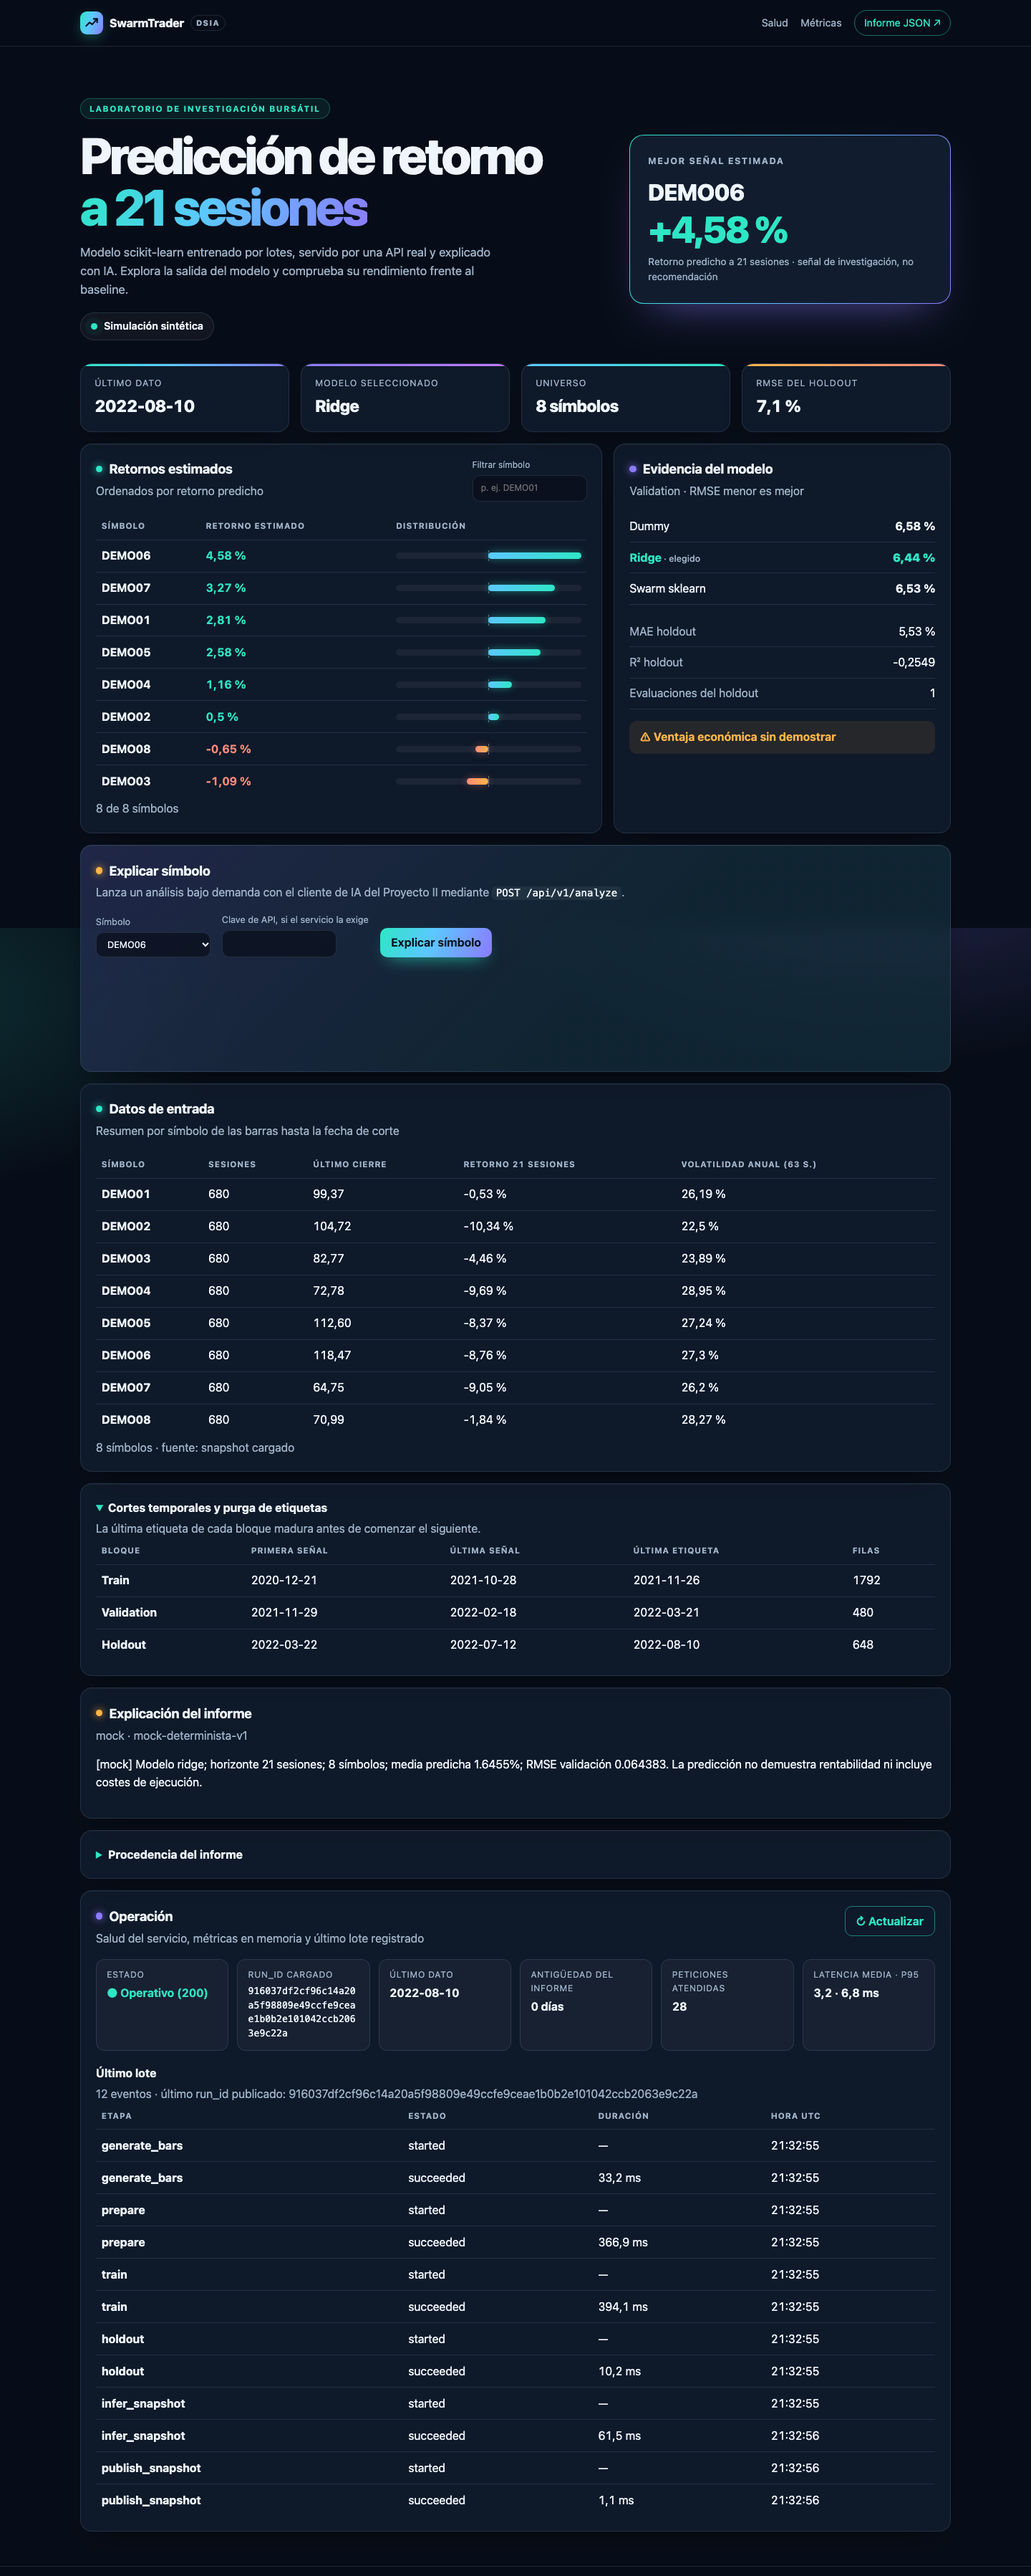
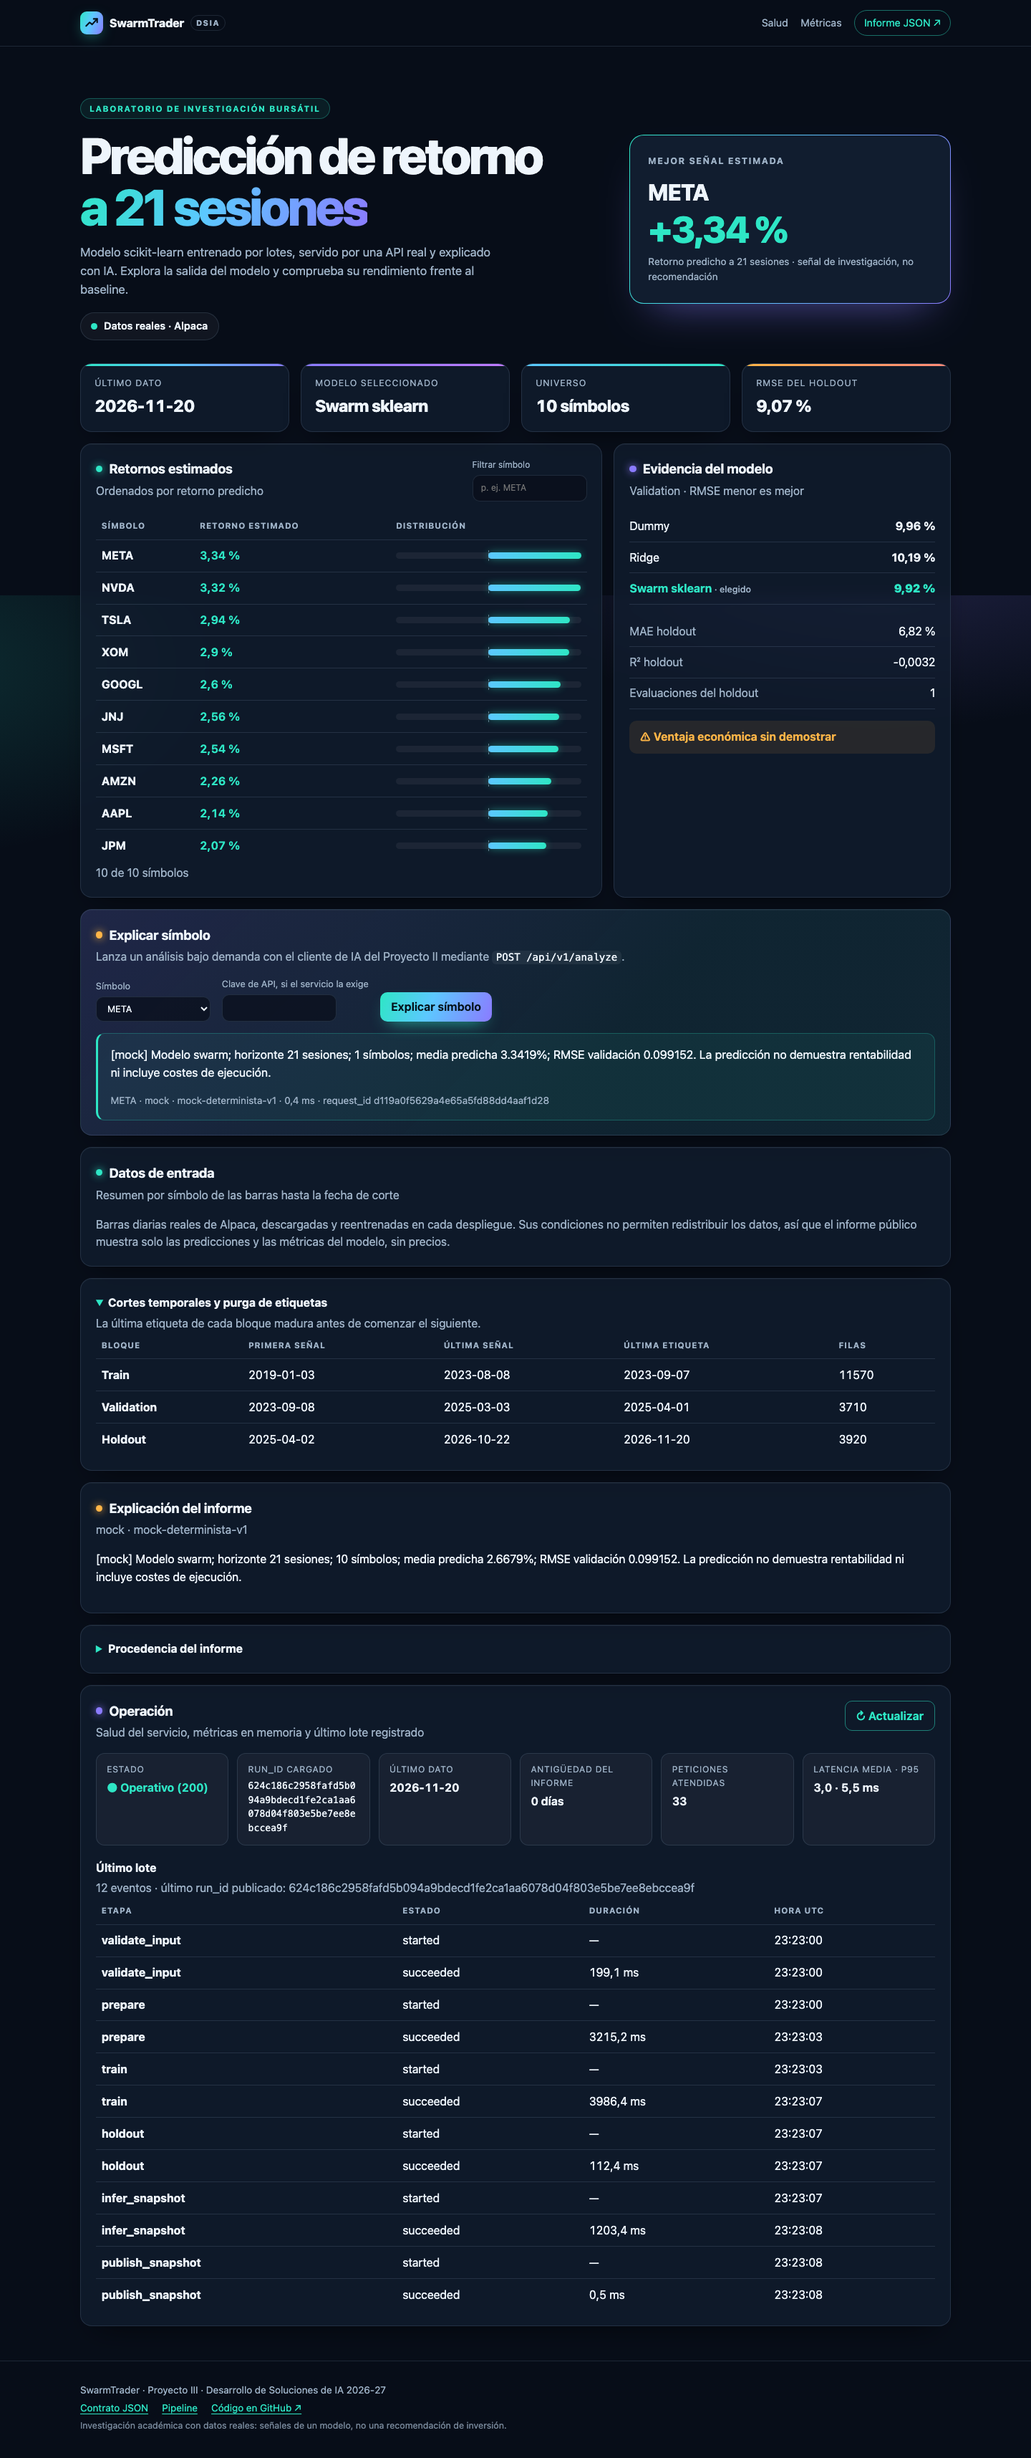
Documentar el despliegue con datos reales de Alpaca y actualizar su captura

diff --git a/proyectos/proyecto_iii/AI_USAGE.md b/proyectos/proyecto_iii/AI_USAGE.md
@@ -9,5 +9,6 @@ Registro por entrada según la política de uso de IA de la asignatura: qué se 
 | 23/11/2026 | Claude Octopus Council | Revisión arquitectónica con presupuesto limitado | Nada | La revisión quedó parcial y sin quórum; no se usó como validación | — |
 | 23/11/2026 | Claude Code (modelo Claude Opus 5.5) | Auditoría de cumplimiento frente al enunciado del III y aplicación de las mejoras de la auditoría | Middleware de `request_id`, `latency_ms`, contadores y cabeceras CSP/nosniff/no-referrer; `/health` con `checks`; `GET /api/v1/predictions/{symbol}`; `POST /api/v1/analyze` con el `AIClient` del II, límite de cuerpo, 503 tipado y `X-API-Key` opcional; `GET /api/v1/pipeline` y `GET /api/v1/metrics`; IA del lote configurada por `AI_PROVIDER`/`HF_*`; etapa `validate_input`; `input_summary` en el snapshot; paneles Operación, Datos de entrada y Explicar símbolo; `browser_smoke.py` y `smoke_test.sh` ampliados; Dockerfile, `.dockerignore`, `render.yaml`, `Procfile`, `.python-version`, `requirements-e2e.txt`; [evidencia agregada del histórico Alpaca](evidencia/historico_alpaca.json); README, contrato y RC | Campo `question` en `/api/v1/analyze`: `AnalysisRequest` del II no tiene pregunta libre y cambiarlo excede el III. Estado `degraded`: el journal es informativo y no justifica un 503. Normalizar símbolos en minúsculas: se prefiere un 422 explícito. URL pública y tag `v0.9.0-rc1`: requieren la cuenta y la aprobación del autor. Captura del dashboard con Alpaca: mostraría cierres y la licencia no permite redistribuirlos | 97 pruebas en verde con 98 % de cobertura de `dsia_web`; cada prueba nueva se puso en rojo rompiendo el código que cubre; Uvicorn en local con `smoke_test.sh` y `browser_smoke.py --expect-pipeline`; `docker build` y `docker run` con `HEALTHCHECK` sano, smoke y prueba de navegador contra el contenedor |
 | 23/11/2026 (tarde) | Claude Code (modelo Claude Opus 5.5) | Verificación final en un clon limpio, despliegue en Render desde `main`, rediseño visual del dashboard | 404/405 del enrutador con el error JSON tipado (`ca7aeb8`); `browser_smoke.py` con `--api-key` y filtro del 503 limitado a `/api/v1/analyze` (`050c698`); README con `.venv-ii`, Procfile aclarado y nota sobre `run_id` (`bb3942c`); imagen con `requirements-runtime.txt` fijado a las versiones del II y su test (`650970f`, 1,17 → 0,88 GB); dashboard con tarjetas, «Mejor señal estimada», favicon y pie, sin código inline (`1156cfc`); `render.yaml` con `runtime: docker` y la URL pública (`b983bcd`) | Cabecera fija: en la captura de página completa del CI aparecía a mitad de la imagen. Fuentes web externas: la CSP `default-src 'self'` las bloquearía. Etiquetar `v0.9.0-rc1`: lo decide el autor | 103 pruebas del III en verde (97,94 %); Playwright `--expect-pipeline` con y sin `DSIA_API_KEY`, móvil a 390 px y sin errores de consola; imagen `healthy` en 6 s con smoke correcto; en Render, `/health` 200, `smoke_test.sh` correcto y análisis desde el dashboard en Chrome |
+| 23-24/11/2026 | Claude Code (modelo Claude Opus 5.5) | Que el despliegue de Render muestre símbolos reales en vez de la demo | `alpaca_source.py` (descarga con `alpaca-py`, SIP con reintento en IEX, panel común `date, symbol, close, volume`, credenciales solo en memoria) y modos `alpaca`/`auto` del lote sin `input_summary` (`507dba5`); secret mount en el Dockerfile y `alpaca-py` en el runtime (`35d85ee`); etiqueta «Datos reales · Alpaca» y aviso de licencia (`31c3638`); `serve.py`, que refresca al arrancar con las claves como variables de entorno (`6e45a4b`); prueba de `/health` independiente de la hora (`5410155`); respuesta del análisis sin animación de entrada para que la captura de página completa no la apague | Publicar cierres, retorno realizado o volatilidad con datos de Alpaca: sus condiciones prohíben redistribuirlos (decisión del autor: solo predicciones). Leer las claves como `ARG` en el build: quedarían en el historial de la imagen. Hornear un snapshot del histórico local en el repositorio: datos fijos y redistribución de derivados | 123 pruebas del III (97 %) con descarga simulada; build con claves falsas → la API real de Alpaca las rechaza y el build falla sin filtrar nada; contenedor con claves falsas → sirve el informe del build; en Render, `data_kind: alpaca`, 10 símbolos, último dato 2026-11-20, `download_bars` con 22 350 filas, smoke y Playwright `--kind "Datos reales · Alpaca"` correctos y ningún `last_close` en `/api/v1/snapshot` |
 
 [Arquitectura y trazabilidad](../../docs/ARQUITECTURA_DSIA.md) · [Uso de IA del Proyecto II](../proyecto_ii/AI_USAGE.md) · [RC](RELEASE.md)

diff --git a/docs/TRAZABILIDAD_DSIA.md b/docs/TRAZABILIDAD_DSIA.md
@@ -49,7 +49,7 @@ El Proyecto III pesa el 40 % de la asignatura. El enunciado fija Release Candida
 | Mínimo docente | Implementación y evidencia |
 | --- | --- |
 | 1. Arquitectura modular y continuidad | [Escenas Excalidraw](ARQUITECTURA_DSIA.md) y [guía del III](../proyectos/proyecto_iii/README.md). CLI batch (`build.py`), snapshot tipado (`snapshot.py`), servicio HTTP (`app.py`), observabilidad (`observability.py`), lectura del journal (`journal.py`), borde de IA (`ai.py`) y exportación agregada (`evidence.py`) con responsabilidades separadas |
-| 2. Procesamiento del dataset del II | El histórico autorizado se reproduce con el CSV Alpaca y el artefacto congelado del II mediante `from-run`, que valida el CSV en la etapa `validate_input`. Se versiona solo un [resumen agregado](../proyectos/proyecto_iii/evidencia/historico_alpaca.json) (10 símbolos, `as_of` 2026-09-28, holdout RMSE 0,0919), sin precios ni predicciones por símbolo. El repositorio usa datos sintéticos para la reproducción pública |
+| 2. Procesamiento del dataset del II | El histórico autorizado se reproduce con el CSV Alpaca y el artefacto congelado del II mediante `from-run`, que valida el CSV en la etapa `validate_input`. Se versiona solo un [resumen agregado](../proyectos/proyecto_iii/evidencia/historico_alpaca.json) (10 símbolos, `as_of` 2026-09-28, holdout RMSE 0,0919), sin precios ni predicciones por símbolo. El repositorio usa datos sintéticos para la reproducción pública. El despliegue público (https://dsia-swarmtrader.onrender.com) procesa datos reales: al arrancar descarga de Alpaca las barras diarias de 10 símbolos hasta la última sesión cerrada (22 350 filas, último dato 2026-11-20 el 23/11/2026), reentrena con la cadena del II y publica solo predicciones y métricas ([`alpaca_source.py`](../proyectos/proyecto_iii/dsia_web/alpaca_source.py), [`serve.py`](../proyectos/proyecto_iii/dsia_web/serve.py)) |
 | 3. Modelo o IA integrados | [Generador](../proyectos/proyecto_iii/dsia_web/build.py) reutiliza inferencia sklearn y métricas congeladas. `POST /api/v1/analyze` llama al `AIClient` del II bajo demanda, configurado desde el entorno como la CLI del II (`AI_PROVIDER`, `HF_*`). El snapshot vincula fuente, modelo, predicción y resumen de entrada |
 | 4. Pruebas y evidencia de CI | [Suite del III](../proyectos/proyecto_iii/tests): 103 tests y 97,94 % de cobertura, iguales en local y en CI; el CI exige un 90 %. [Smoke HTTP](../proyectos/proyecto_iii/scripts/smoke_test.sh) de salud, snapshot, predicción, análisis y métricas, y [Playwright](../proyectos/proyecto_iii/tests/browser_smoke.py) con `--expect-pipeline`. El run [45271274056](https://github.com/dalonsogomez-ai/dsia-26-27-alonso-daniel/actions/runs/45271274056) de `main` lo ejecuta todo (también Docker) y [Actions en main](https://github.com/dalonsogomez-ai/dsia-26-27-alonso-daniel/actions/workflows/ci.yml?query=branch%3Amain) conserva la evidencia por commit |
 | 5. Web usable y conectada al backend | **Producto:** ranking, filtro de símbolos, baseline, cortes temporales, tabla de datos de entrada y formulario «Explicar símbolo». **Operación:** panel con `/health` (estado y comprobaciones), `/api/v1/metrics` (peticiones, latencia media y p95) y `/api/v1/pipeline` (últimos eventos del lote). Errores tipados con `request_id` y cabeceras de seguridad (CSP, `nosniff`, `no-referrer`) |

diff --git a/docs/AI_USAGE.md b/docs/AI_USAGE.md
@@ -19,3 +19,12 @@
 | Qué se aceptó | `render.yaml` con `runtime: docker`, región Frankfurt, plan free, `healthCheckPath: /health` y `autoDeployTrigger: commit`, que describe el servicio creado en Render (`b983bcd`); URL pública en el README raíz, `README_DSIA.md`, `proyectos/README.md`, la arquitectura y la matriz de trazabilidad; `workflow_dispatch` mencionado en el índice del CI |
 | Qué se rechazó o no se adoptó | Desplegar con el runtime Python de Render: la imagen Docker es la misma que construye y prueba el job `proyecto-iii-docker`, así que el entorno desplegado coincide con el verificado. Tag `v0.9.0-rc1`: creado cuando el autor lo aprobó, sobre `0119c57` con CI verde; no se crea una release de GitHub aparte. Reescribir el historial de octubre del II: no se fabrica |
 | Cómo se verificó | En Render: build de la imagen con el lote demo dentro, `/health` → `200 ready`, `scripts/smoke_test.sh https://dsia-swarmtrader.onrender.com` → «Smoke correcto», y dashboard en Chrome con el panel Operación y «Explicar símbolo» sin errores de consola; tras integrar, Render despliega `main` (`a5a5b9b`) y `browser_smoke.py --expect-pipeline` pasa contra la URL pública. CI: el primer run del PR falló por el sha256 de la demo en Linux (corregido en `d3bff34`); después, PR ([45270756811](https://github.com/dalonsogomez-ai/dsia-26-27-alonso-daniel/actions/runs/45270756811)) y `main` ([45271274056](https://github.com/dalonsogomez-ai/dsia-26-27-alonso-daniel/actions/runs/45271274056)) en verde con I 178 / 99,31 %, II 74 / 83,42 %, III 103 / 97,94 % y Docker. `render.yaml` validado con PyYAML y contrastado con la especificación de Blueprints de Render |
+
+## 23-24/11/2026 · Claude Code (modelo Claude Opus 5.5): datos reales en Render
+
+| Campo | Contenido |
+| --- | --- |
+| Qué se pidió | Que el despliegue de Render muestre los símbolos reales y quede completamente funcional en `main`, con los enlaces de Render en el README |
+| Qué se aceptó | PR #2 (descarga de Alpaca en el lote y en el build con secret file) y PR #3 (refresco al arrancar con las claves como variables de entorno, sección «Demo en vivo (Render)» del README raíz y `render.yaml` con `ALPACA_*` como `sync: false`), ambos con CI verde antes de fusionar |
+| Qué se rechazó o no se adoptó | Mostrar precios de Alpaca en la web pública (sus condiciones lo prohíben; el autor eligió publicar solo predicciones). Pasar las claves como `ARG` al build de Docker. Introducir yo las claves en Render: las creó el autor en el panel |
+| Cómo se verificó | https://dsia-swarmtrader.onrender.com/health → `ready`, `data_kind: alpaca`, último dato 2026-11-20; `smoke_test.sh` y `browser_smoke.py --kind "Datos reales · Alpaca" --expect-pipeline` correctos contra la URL pública; `/api/v1/snapshot` sin `last_close` |

diff --git a/proyectos/proyecto_iii/README.md b/proyectos/proyecto_iii/README.md
@@ -47,7 +47,7 @@ La prueba abre Chromium contra el servicio en marcha y comprueba que la respuest
 
 ## Empaquetado y despliegue
 
-`=>` **URL de despliegue:** [https://dsia-swarmtrader.onrender.com](https://dsia-swarmtrader.onrender.com) (dashboard) · API en [`https://dsia-swarmtrader.onrender.com/health`](https://dsia-swarmtrader.onrender.com/health), [`/api/v1/metrics`](https://dsia-swarmtrader.onrender.com/api/v1/metrics), [`/api/v1/pipeline`](https://dsia-swarmtrader.onrender.com/api/v1/pipeline). Web Service de Render con la imagen [Dockerfile](Dockerfile) (región Frankfurt, plan free, `healthCheckPath: /health`, `AI_PROVIDER=mock`), desplegado desde `main` con auto-deploy en cada commit. En el plan free la instancia se duerme tras unos minutos sin tráfico y la primera petición tarda unos 50 s; para la exposición conviene abrir la URL antes. Comprobado el 23/11/2026: `/health` → `200 ready`, `scripts/smoke_test.sh https://dsia-swarmtrader.onrender.com` → «Smoke correcto», y `tests/browser_smoke.py https://dsia-swarmtrader.onrender.com/ --expect-pipeline` → «OK · API, salud y operación, datos de entrada, análisis y su error, ranking, filtro, cortes y móvil» con Chromium real. [Captura del despliegue](evidencia/dashboard_render.png) (datos sintéticos).
+`=>` **URL de despliegue:** [https://dsia-swarmtrader.onrender.com](https://dsia-swarmtrader.onrender.com) (dashboard) · API en [`https://dsia-swarmtrader.onrender.com/health`](https://dsia-swarmtrader.onrender.com/health), [`/api/v1/metrics`](https://dsia-swarmtrader.onrender.com/api/v1/metrics), [`/api/v1/pipeline`](https://dsia-swarmtrader.onrender.com/api/v1/pipeline). Web Service de Render con la imagen [Dockerfile](Dockerfile) (región Frankfurt, plan free, `healthCheckPath: /health`, `AI_PROVIDER=mock`), desplegado desde `main` con auto-deploy en cada commit. En el plan free la instancia se duerme tras unos minutos sin tráfico y la primera petición tarda unos 50 s; para la exposición conviene abrir la URL antes. Comprobado el 23/11/2026: `/health` → `200 ready`, `scripts/smoke_test.sh https://dsia-swarmtrader.onrender.com` → «Smoke correcto», y `tests/browser_smoke.py https://dsia-swarmtrader.onrender.com/ --kind "Datos reales · Alpaca" --expect-pipeline` → «OK · API, salud y operación, datos de entrada, análisis y su error, ranking, filtro, cortes y móvil» con Chromium real. Desde el 23/11/2026 sirve **datos reales de Alpaca**: `data_kind: alpaca`, 10 símbolos, último dato 2026-11-20 (la última sesión cerrada), 22 350 filas descargadas al arrancar, modelo `swarm` elegido en validación y ningún precio en la respuesta pública. [Captura del despliegue](evidencia/dashboard_render.png).
 
 ### Datos reales en el despliegue
 
